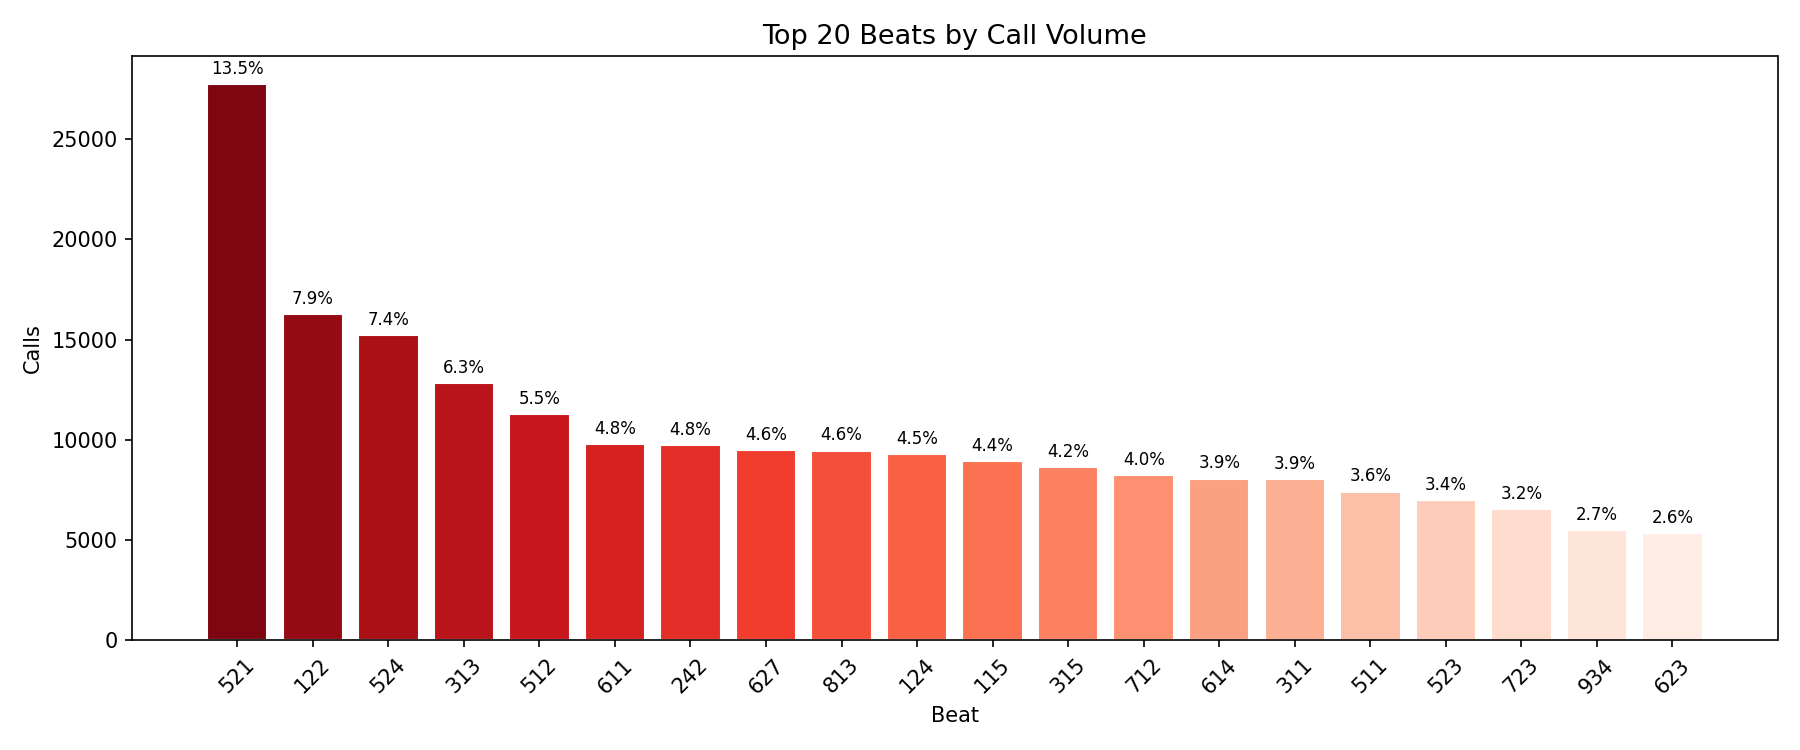
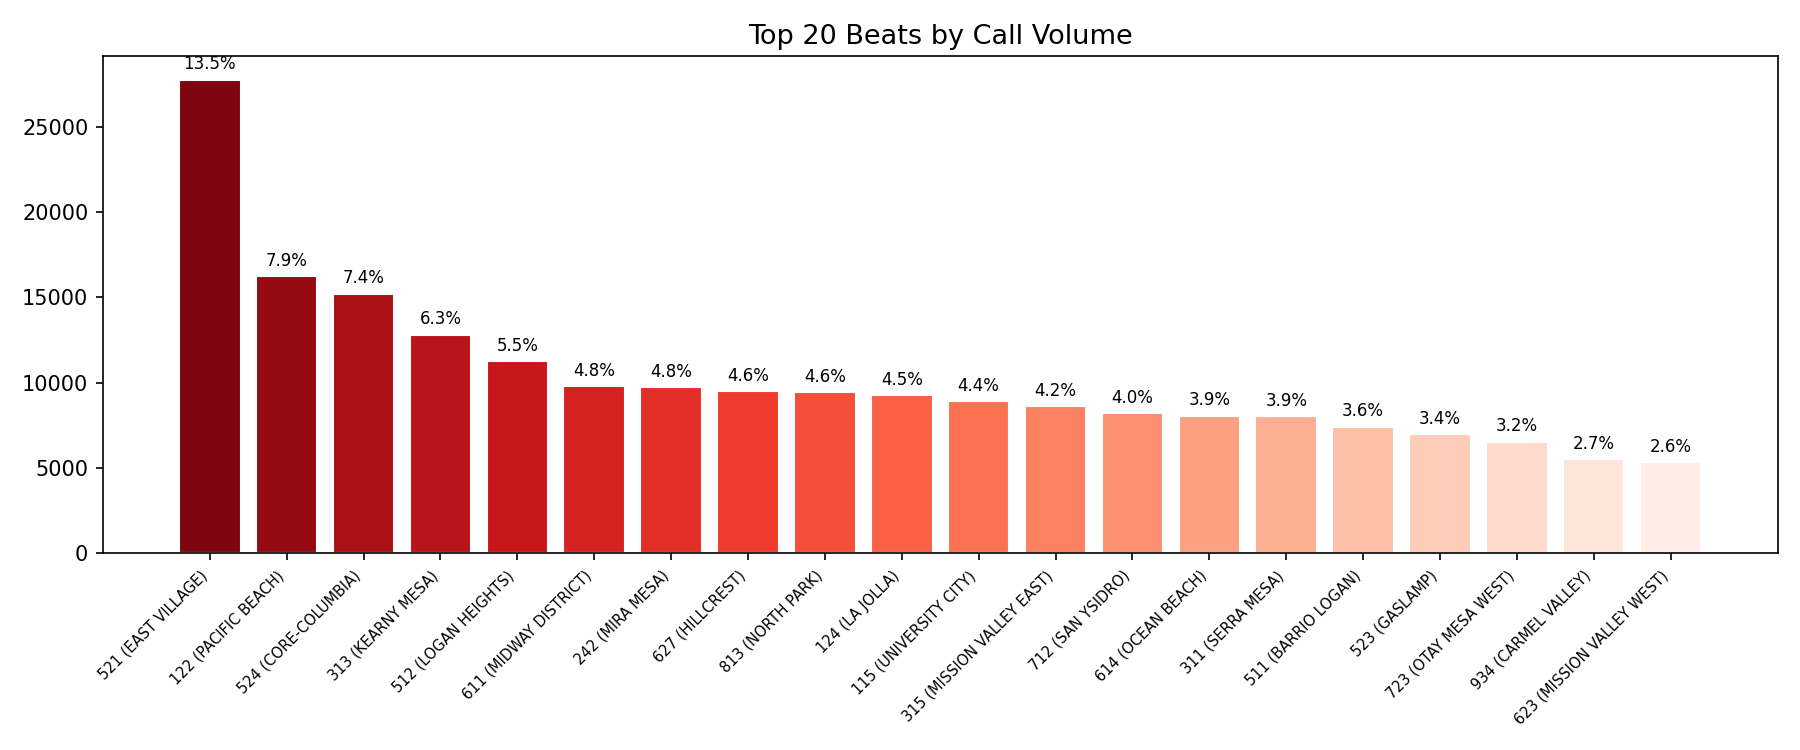
modified plots such that beat name and call type description are included

diff --git a/modules/step2_eda.py b/modules/step2_eda.py
@@ -11,6 +11,7 @@ import pandas as pd
 import matplotlib.pyplot as plt
 import matplotlib.ticker as mticker
 import seaborn as sns
+import geopandas as gpd
 
 #### Parameters ###
 
@@ -162,7 +163,7 @@ def plot_call_type_distribution(df, top_n=20, figsize=(12,6)):
     plt.savefig(os.path.join(OUT_DR, "eda3_call_type.png"), dpi=150)
     plt.show()
 
-def plot_beat_hotspot(df, top_n=20, figsize=(12,5)):
+def plot_beat_hotspot(df, geojson_path, top_n=20, figsize=(12,5)):
     '''
     Visualizes the highest volume patrol beats (geographic hotspots).
     For assessing resource allocation and identifying areas requiring increased patrol presence.
@@ -176,6 +177,9 @@ def plot_beat_hotspot(df, top_n=20, figsize=(12,5)):
     Returns
     N/A
     '''
+    SD_beats_df = gpd.GeoDataFrame.from_file(geojson_path)
+    beat_names = SD_beats_df.set_index("beat")["name"].to_dict()
+
     counts = df.groupby("BEAT").size().sort_values(ascending=False).head(top_n)
 
     _, ax = plt.subplots(figsize=figsize)
@@ -186,7 +190,10 @@ def plot_beat_hotspot(df, top_n=20, figsize=(12,5)):
 
     ax.bar_label(bars, labels=pct_labels, padding=3, fontsize=8)
     ax.set_title(f"Top {top_n} Beats by Call Volume", fontsize=13)
-    ax.set_xlabel("Beat"); ax.set_ylabel("Calls")
+    tick_labels = [f"{beat} ({beat_names.get(beat, '')})" for beat in counts.index]
+    ax.set_xticks(range(len(counts)))
+    ax.set_xticklabels(tick_labels, rotation=45, ha="right", fontsize=7)
+
     plt.xticks(rotation=45); plt.tight_layout()
     plt.savefig(os.path.join(OUT_DR, "eda4_beat_hotspot.png"), dpi=150)
     plt.show()
@@ -264,7 +271,7 @@ def plot_disposition(df, figsize=(11,5)):
     plt.savefig(os.path.join(OUT_DR, "eda6_disposition.png"), dpi=150)
     plt.show()
 
-def plot_calltype_hour_heatmap(df, top_n=12, figsize=(13, 6)):
+def plot_calltype_hour_heatmap(df, calltypes_path, top_n=12, figsize=(13, 6)):
     '''
     Heatmap of Top-N call types x hour of day (row-normalized).
     Useful for understanding if certain incident types require time-targeted resourcing.
@@ -281,8 +288,10 @@ def plot_calltype_hour_heatmap(df, top_n=12, figsize=(13, 6)):
     assert isinstance(df, pd.DataFrame) and len(df) > 0
     assert "CALL_TYPE" in df.columns
 
-    df = add_time_features(df)
+    map_df = pd.read_csv(calltypes_path)
+    calltypes = map_df.set_index("call_type")["description"].to_dict()
 
+    df = add_time_features(df)
     top_types = df["CALL_TYPE"].value_counts().head(top_n).index
     sub = df[df["CALL_TYPE"].isin(top_types)]
 
@@ -296,6 +305,11 @@ def plot_calltype_hour_heatmap(df, top_n=12, figsize=(13, 6)):
     ax.set_title(f"Top {top_n} Call Types Share x Hour of Day",fontsize=12)
     ax.set_xlabel("Hour of Day")
     ax.set_ylabel("Call Type")
+
+    tick_labels = [f"{calltype} ({calltypes.get(calltype, calltype)})" for calltype in ch_group_norm.index]
+    ax.set_yticklabels(tick_labels, rotation=0, fontsize=8)
+    ax.set_xticklabels(ax.get_xticklabels(), rotation=0)
+
     ax.set_xticklabels(ax.get_xticklabels(), rotation=0)
     plt.tight_layout()
     plt.savefig(os.path.join(OUT_DR, "eda7_calltype_hour_heatmap.png"), dpi=150)
@@ -429,7 +443,6 @@ def plot_beat_choropleth(df, geojson_path, figsize=(12,10)):
     Returns
     N/A
     '''
-    import geopandas as gpd
 
     SD_beats_df = gpd.GeoDataFrame.from_file(geojson_path)
     call_counts = df['BEAT'].value_counts().to_frame().reset_index()
@@ -460,8 +473,9 @@ def main():
     Reads the cleaned_v2 CSV, creates output directory, and saves all figures.
     """
     # ----- Paths you may want to change based on your system -----
-    DATA_CSV    = "./data/01-processed/pd_calls_for_service_2025_datasd_cleaned_v2.csv"
-    GEOJSON     = "./data/00-raw/pd_beats_datasd.geojson"
+    DATA_CSV = "./data/01-processed/pd_calls_for_service_2025_datasd_cleaned_v2.csv"
+    GEOJSON = "./data/00-raw/pd_beats_datasd.geojson"
+    CALLTYPES = "./data/00-raw/pd_cfs_calltypes_datasd.csv"
 
     os.makedirs(OUT_DR, exist_ok=True)
 
@@ -477,10 +491,10 @@ def main():
     plot_hour_dow_heatmap(df)
     plot_seasonal_monthly(df)
     plot_call_type_distribution(df)
-    plot_beat_hotspot(df)
+    plot_beat_hotspot(df, GEOJSON)
     plot_priority_distribution(df)
     plot_disposition(df)
-    plot_calltype_hour_heatmap(df)
+    plot_calltype_hour_heatmap(df, CALLTYPES)
     plot_category_by_season(df)
     plot_disposition_pareto(df)
     plot_daily_timeseries(df)
